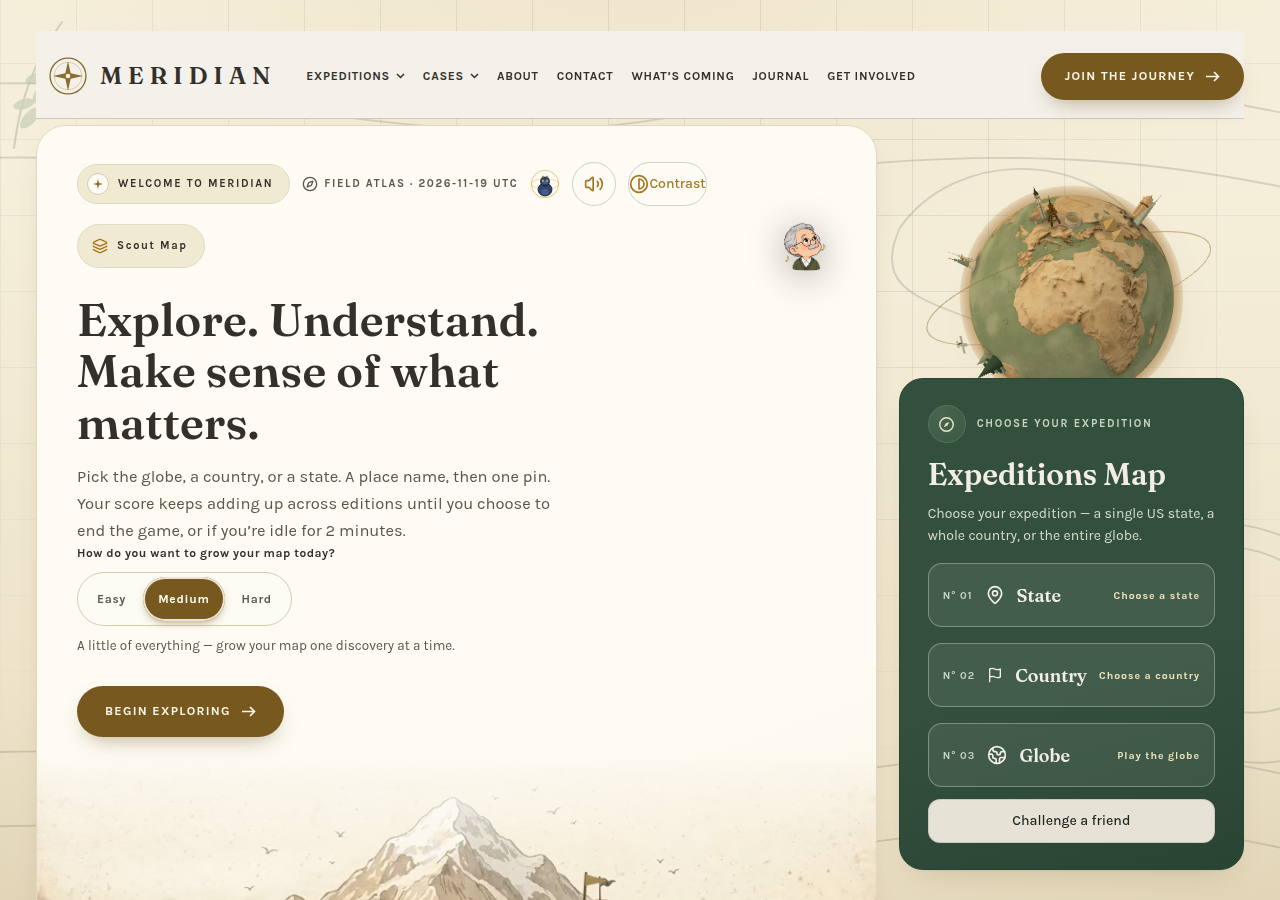
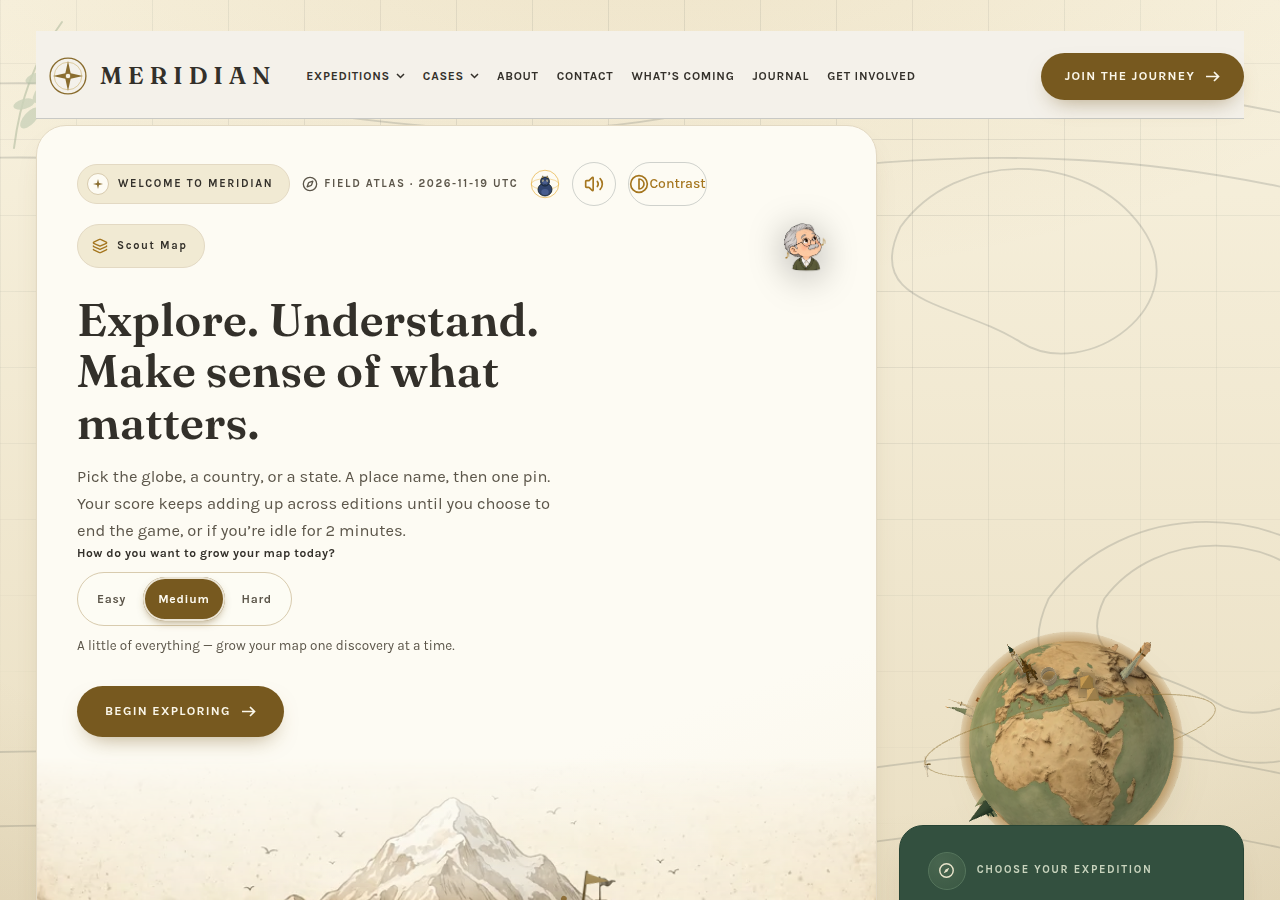
Anchor the desktop rail group to the hero foot in the mocks

Changed region(s): [[0.6875, 0.1867, 0.9688, 1.0], [0.25, 0.9333, 0.4375, 0.9956], [0.4375, 0.9956, 0.4688, 1.0]]

diff --git a/docs/branch-status/feat-landmark-globe.md b/docs/branch-status/feat-landmark-globe.md
@@ -83,6 +83,16 @@ Captures: `docs/motion-verify/landmark-globe-mockup-1280px.png` (1280 x 900, ful
 - Captures re-taken (full screen, per the owner's words): `landmark-globe-in-prod-full-1280px.png`, `landmark-globe-in-prod-full-768px.png`, `landmark-globe-in-prod-full-390px.png`, plus the hero frame `landmark-globe-in-prod-1280px.png`. The 390 hero frame was NOT overwritten: its composition is unchanged (identical card metrics; the pixel diff against a fresh frame is the running globe/mountain animation only).
 - Contract: section 3.6 Stage 2 item 1 rewritten — the card sizes to content at every width (`.hv5-mapcard` flex 0 0 auto), `.hv5-editions` standard 16 px step with no auto-margin centring (marked superseded by this ruling), `.hv5-edition` min-height 64 px, gap 16 px (12 px at <=680px).
 
+## Addendum 7 — desktop top section composes as one shell (owner: "You need to fix desktop view", Nov 19 2026)
+
+- Defect [measured]: at desktop the hero runs 1192 px tall (copy + restored mountain scene) while the rail's content (globe zone 345 + card 492 − 92 overlap = 745 px) ended mid-column, leaving 447 px of empty page background under the card beside the mountain. Tablet and phone compose fine. The addendum-6 "nothing stranded" eyeball call was wrong.
+- Design pass (UI designer, UX researcher, frontend developer personas loaded verbatim; no seat vacant): the UI designer's recommendation carried — the rail's two components travel as one group anchored to the hero's foot, so the card's bottom edge shares the hero's baseline and the card sits beside the mountain painting. Dissent on record: the UX researcher held that only widening the rail (2.02fr / minmax(300px, 1.08fr)) shrinks the void rather than moving it — rejected because it shrinks the approved mountain scene, reflows the headline, and still leaves a residual void. The frontend developer's scoping (desktop-only, base rules untouched) was adopted as the implementation guard.
+- Staged change (staging checkout only; production untouched): `@media (min-width: 1081px) { .home-v5 .hv5-rail { justify-content: flex-end; } }`. Nothing else.
+- Measured on the staged page [tested]: 1280 — hero 1192, card top in rail 253 -> 700, space under the card in the rail 447 -> 0, card 492, copy-to-row gap 16, space below the Challenge button 27, mountain 559, overflow 0, zero injection errors. 1878 (owner's window) — hero 1212, card top 720, space under the card 0. Both full pages read by eye: card foot flush with the hero foot, globe overlaps the card top as before, the freed space sits above the globe beside the hero's copy block, the section reads as one composed unit.
+- 768/390 untouched [tested]: card 470/484, card top in rail 228/208, gap 16, space below button 27, mountain 462/256 visible, overflow 0 — identical to the addendum-6 measurements; their full-page captures were NOT overwritten. Staging note: the hero's total height at 768/390 measures +12/+68 px against the addendum-6 captures' build in a fresh build of the staged source, WITH OR WITHOUT this addendum's rule (A/B verified by rebuilding both ways) — a stale-build artefact of the staging checkout, not an effect of the desktop change; every card/rail/mountain metric is unchanged.
+- Captures overwritten: `landmark-globe-in-prod-full-1280px.png`, `landmark-globe-in-prod-1280px.png`. A 1878 px full-page capture was taken for the eyeball check (staging only, not committed).
+- Contract: section 3.6 Stage 2 gains item 3 — the desktop composition rule stated as classes/values.
+
 ## Next step
 
 - Owner reviews the mockup and the captures. Stage 2 (production code in the Home hero) starts only on the owner's approval.

diff --git a/docs/mockups/landmark-globe-contract.md b/docs/mockups/landmark-globe-contract.md
@@ -105,3 +105,4 @@ Stage 2 production changes (owner rulings Nov 19 2026; layout decided by a three
 
 1. Expeditions Map card (src/components/game-app.tsx + src/components/home-v5.css): delete the hv5-worldmap SVG (game-app.tsx, inside .hv5-mapcard) and its .home-v5 .hv5-worldmap rule. The card sizes to its content at every width (owner ruling, Nov 19 2026: "Make the desktop card size to its content, like mobile" — supersedes the addendum-5 auto-margin centring, which existed only to fill the desktop stretch): .home-v5 .hv5-mapcard flex changes from 1 to 0 0 auto, so the rail still stretches to the hero's height but the card no longer grows to fill it (the rail's only other child is the globe zone; nothing depends on the stretch). Inside the card: .hv5-editions takes the standard step under the copy — margin-top: 16px; gap: 16px, and gap: 12px at <=680px; no auto margins. .hv5-edition min-height rises 48px to 64px. Badge, label, heading, copy, card padding (26px 28px) and the Challenge button (mt-3, directly under the editions) are unchanged. Measured in the approved mock: card height 492px at 1280 (was ~939px stretched), 470px at 768, 484px at 390; copy-to-first-row gap 16px and space below the Challenge button equal to the 26px card padding at all three widths.
 2. Mountain climbing scene on tablet and phone (src/components/home-v5.css) — BUG FIX (owner ruling, Nov 19 2026: the hide rule is the defect; responsive design scales the asset, it does not hide it): remove the @media (max-width: 1080px) rule that sets .hv5-mtn-wrap to display: none, and add to the <=680px block: .hv5-mtn-wrap { flex: 0 0 auto; margin: 20px -22px -32px; } (the bleed matches the <=680px hero padding; flex: 0 0 auto lets the art's aspect ratio govern the wrap height so the sliced trail and trekker overlays stay aligned). At 681–1080px the base wrap rule applies unchanged. In the approved mock the scene renders and animates at 768px and 390px (two captured frames differ at both widths), with no horizontal overflow.
+3. Desktop composition of the top section (src/components/home-v5.css) — owner ruling, Nov 19 2026 ("You need to fix desktop view"), decided by the same three-seat design pass and staged in the approved mock: with the card at content height, the rail's two components (globe zone + map card) travel as one group anchored to the hero's foot — @media (min-width: 1081px) { .home-v5 .hv5-rail { justify-content: flex-end; } }. The bento columns (2.24fr / minmax(260px, 0.92fr)), the globe zone (width: 100%; aspect-ratio: 1; margin: 0 0 -92px; its overlap onto the card unchanged) and the hero's proportions are unchanged; the card's bottom edge now shares the hero's baseline and the card sits beside the mountain scene. Measured in the approved mock at 1280px: hero 1192px tall, rail content 745px (globe zone 345px + card 492px − 92px overlap), card top at 700px in the rail, space under the card in the rail 0px (was 447px); the freed 447px sits above the globe zone, beside the hero's copy block. At 1878px: hero 1212px, card top 720px, space under the card 0px. The rule is scoped to min-width: 1081px so the <=1080px stacked layouts cannot move — re-measured identical (card 470px at 768px, 484px at 390px; copy-to-first-row gap 16px; mountain 462px / 256px, visible).
